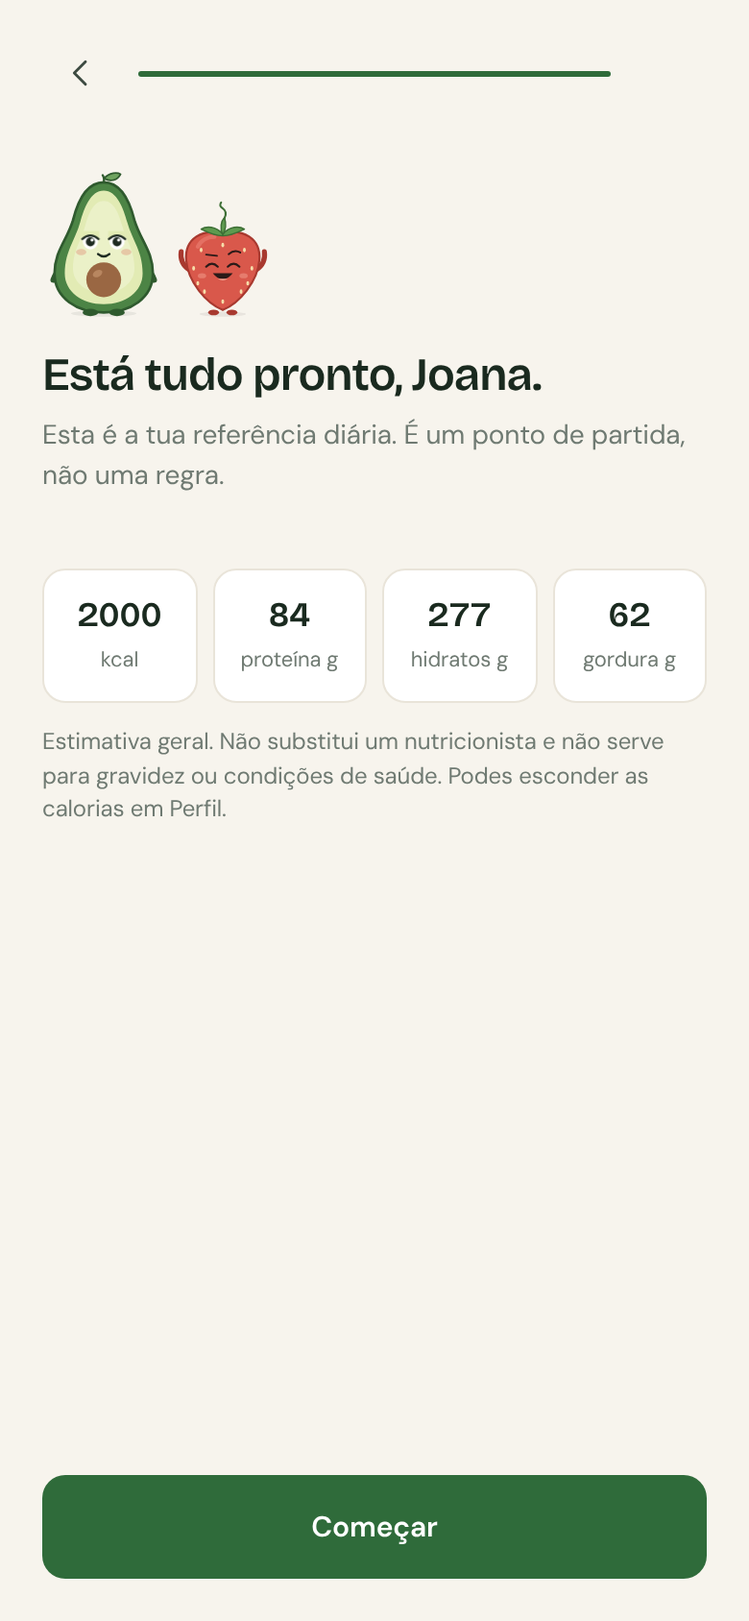
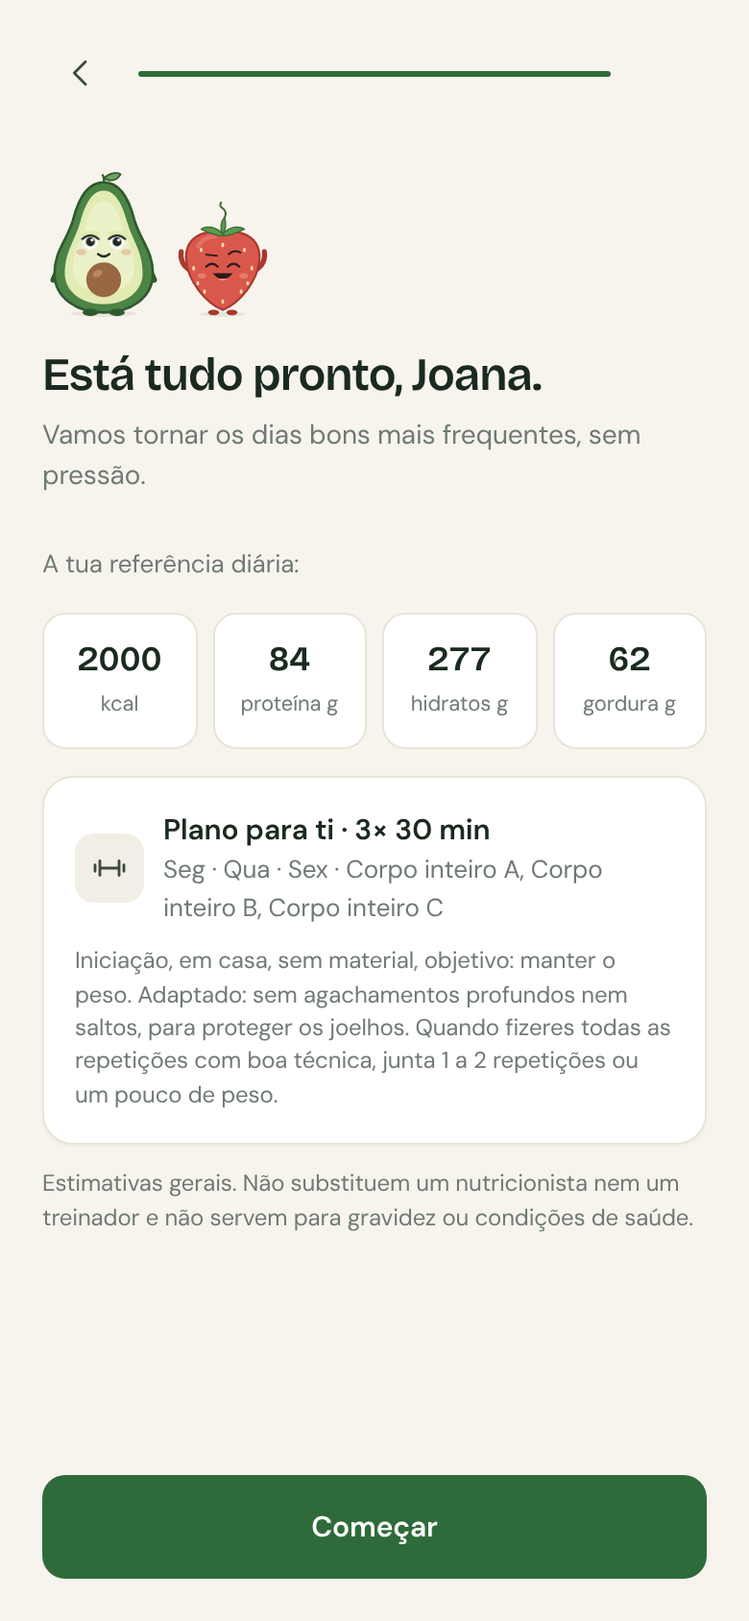
Brota: onboarding em conversa com o Abi e o Morango, gostos e qualidade da alimentação, plano de treino personalizado (local, dias, tempo, experiência, objetivo, limitações, IMC, idade)
Claude-Session: https://claude.ai/code/session_01YPf1t7VEr217cGx4TfyVm4

diff --git a/app/index.html b/app/index.html
@@ -711,7 +711,66 @@ const PROGRAMS = [
     s:[{ n:"Cardio contínuo", e:[["Caminhada rápida ou corrida leve","25 min"],["Mobilidade de anca e ombros","10 min"]] },
        { n:"Intervalos leves", e:[["Aquecimento","5 min"],["1 min rápido + 2 min calmo","6 vezes"],["Retorno à calma","5 min"],["Alongamentos","5 min"]] }] }
 ];
-const progOf = () => S.wk && PROGRAMS.find(p => p.id === S.wk.prog);
+/* ===== Plano de treino personalizado =====
+   Depende de: local (ginásio, casa com material, casa sem material, rua), dias, minutos, experiência,
+   objetivo, limitações (joelhos, costas, ombros), IMC e idade. Gera sessões a partir de padrões de movimento. */
+const EXL = {
+  squat:{ gym:["Agachamento com barra","Leg press"], equip:["Agachamento goblet com haltere","Agachamento com elástico"], casa:["Agachamento com o peso do corpo","Agachamento com pausa"], rua:["Agachamento com o peso do corpo","Agachamento com salto pequeno"], knee:["Sentar e levantar de um banco","Ponte de glúteos"] },
+  hinge:{ gym:["Peso morto romeno","Hip thrust com barra"], equip:["Peso morto romeno com halteres","Ponte de glúteos com haltere"], casa:["Ponte de glúteos","Ponte de glúteos a uma perna"], rua:["Ponte de glúteos num banco","Hip thrust num banco"], back:["Hip thrust apoiado","Bird dog"] },
+  push:{ gym:["Supino com halteres","Supino com barra"], equip:["Flexões","Press de peito com elástico"], casa:["Flexões (inclinadas, se precisares)","Flexões de joelhos"], rua:["Flexões num banco","Flexões"], shoulder:["Flexões inclinadas numa mesa","Press de peito leve com elástico"] },
+  pull:{ gym:["Puxada à frente","Remada sentada"], equip:["Remada com haltere","Remada com elástico"], casa:["Remada com toalha numa porta","Superman"], rua:["Remada australiana numa barra baixa","Superman"] },
+  press:{ gym:["Press de ombros com halteres","Elevações laterais"], equip:["Press de ombros com halteres","Elevações laterais com elástico"], casa:["Flexões pike","Elevações em Y deitado"], rua:["Flexões pike num banco","Elevações em Y"], shoulder:["Elevações laterais leves","Face pull com elástico"] },
+  lunge:{ gym:["Lunges com halteres","Step-up num banco"], equip:["Lunges com halteres","Step-up num degrau"], casa:["Lunges alternados","Lunges para trás"], rua:["Step-up num banco","Lunges a andar"], knee:["Elevação de gémeos","Abdução de anca deitado"] },
+  core:{ all:["Prancha","Dead bug","Prancha lateral"] },
+  cardio:{ gym:["Bicicleta ou passadeira inclinada"], equip:["Marcha rápida no lugar"], casa:["Marcha rápida ou polichinelos"], rua:["Caminhada rápida ou corrida leve"], low:["Caminhada rápida","Bicicleta estática"] }
+};
+const SPLITS = {
+  A:["squat","push","pull","hinge","core","lunge","press"],
+  B:["hinge","press","pull","lunge","push","core","squat"],
+  C:["lunge","pull","push","squat","core","hinge","press"],
+  U:["push","pull","press","pull","push","core","press"],
+  L:["squat","hinge","lunge","core","squat","hinge","lunge"]
+};
+const PLACE_L = { gym:"no ginásio", equip:"em casa com material", casa:"em casa, sem material", rua:"ao ar livre" };
+const LVL_L = { zero:"Iniciação", algum:"Intermédio", regular:"Avançado" };
+function generatePlan({ place="casa", days=3, min=30, lvl="zero", goal="manter", lim=[], bmi=22, age=30 }){
+  days = clamp(+days || 3, 2, 5); min = +min || 30;
+  const knee = lim.includes("Joelhos"), back = lim.includes("Costas"), shoulder = lim.includes("Ombros");
+  const low = knee || bmi >= 30 || age >= 60; // sem saltos nem impacto
+  const n = { 20:4, 30:5, 45:6, 60:7 }[min] || 5;
+  const sets = { zero:2, algum:3, regular:4 }[lvl] || 2;
+  const reps = goal === "musculo" && lvl !== "zero" ? "8–10" : "10–12";
+  const hold = { zero:"20 s", algum:"30 s", regular:"45 s" }[lvl] || "20 s";
+  const order = days <= 3 ? ["A","B","C"].slice(0, days === 2 ? 2 : 3) : days === 4 ? ["U","L"] : ["U","L","X"];
+  const pick = (pat, v) => { const L = EXL[pat];
+    if (knee && L.knee && (pat === "squat" || pat === "lunge")) return L.knee[v % L.knee.length];
+    if (back && L.back && pat === "hinge") return L.back[v % L.back.length];
+    if (shoulder && L.shoulder && (pat === "push" || pat === "press")) return L.shoulder[v % L.shoulder.length];
+    const arr = L.all || L[place] || L.casa; let ex = arr[v % arr.length];
+    if (low && /salto/i.test(ex)) ex = arr.find(x => !/salto/i.test(x)) || "Agachamento com o peso do corpo";
+    return ex; };
+  const cardio = () => low ? EXL.cardio.low[0] : (EXL.cardio[place] || EXL.cardio.casa)[0];
+  const sessions = order.map((key, si) => {
+    if (key === "X") return { n:"Cardio e mobilidade", e:[["Aquecimento articular","5 min"],[cardio(), lvl === "zero" ? "20 min, ritmo confortável" : "25 min, ritmo moderado"],["Mobilidade de anca, costas e ombros","10 min"]] };
+    const seen = {}, e = [["Aquecimento: mobilidade e marcha","5 min"]];
+    SPLITS[key].slice(0, n).forEach(pat => { seen[pat] = seen[pat] === undefined ? si : seen[pat] + 1;
+      const name = pick(pat, seen[pat]);
+      if (e.some(x => x[0] === name)) return;
+      e.push([name, pat === "core" ? (/Prancha/.test(name) ? `${sets} × ${hold}` : `${sets} × 10`) : `${sets} × ${reps}${pat === "lunge" || /uma perna/.test(name) ? " por perna" : ""}`]); });
+    if (goal === "perder" || min >= 45) e.push([cardio(), goal === "perder" ? "10–15 min" : "10 min"]);
+    return { n: { A:"Corpo inteiro A", B:"Corpo inteiro B", C:"Corpo inteiro C", U:"Parte de cima", L:"Pernas e core" }[key], e };
+  });
+  const notes = [];
+  if (knee) notes.push("sem agachamentos profundos nem saltos, para proteger os joelhos");
+  if (back) notes.push("sem peso morto, com exercícios que poupam as costas");
+  if (shoulder) notes.push("cargas leves nos ombros");
+  if (!knee && low) notes.push("sem impacto, para começar com segurança");
+  const dayIdx = { 2:[1,4], 3:[0,2,4], 4:[0,1,3,4], 5:[0,1,2,4,5] }[days];
+  return { id:"custom", n:`Plano para ti · ${days}× ${min} min`, lvl: lvl === "regular" ? 3 : lvl === "algum" ? 2 : 1, min, days:dayIdx, s:sessions,
+    d:`${LVL_L[lvl] || "Iniciação"}, ${PLACE_L[place] || ""}, objetivo: ${goalName(goal).toLowerCase()}.` + (notes.length ? ` Adaptado: ${notes.join("; ")}.` : "")
+      + " Quando fizeres todas as repetições com boa técnica, junta 1 a 2 repetições ou um pouco de peso." };
+}
+const progOf = () => S.wk && (S.wk.prog === "custom" ? S.wk.custom : PROGRAMS.find(p => p.id === S.wk.prog));
 const workoutDone = k => !!((S.wk && S.wk.done && S.wk.done[k]) || (S.wkHist && S.wkHist[k]));
 function sessionFor(k){ const p = progOf(); if (!p) return null; const days = S.wk.days, d = dow(k); if (!days.includes(d)) return null;
   const w = Math.round((parseK(mondayOf(k)) - parseK(mondayOf(S.wk.start))) / 864e5 / 7); // rotação contínua entre semanas
@@ -1009,6 +1068,9 @@ let rFilter = "Todas";
 function recipeAllowed(r){ const u = S.u || {}, al = (u.al||[]).filter(x => x !== "Nenhuma"), dt = u.diet || [];
   if (r.col_id && !S.owned.includes(r.col_id)) return false;
   if (r.al.some(a => al.includes(a))) return false;
+  const SYN = { "leguminosas":["grão","feijão","lentilha"], "peixe":["salmão","atum","peixe","bacalhau","pescada"], "picante":["caril","malagueta","piri"] };
+  const dl = (u.dislikes || []).flatMap(x => SYN[String(x).toLowerCase()] || [String(x).toLowerCase()]).filter(Boolean);
+  if (dl.length && r.i.some(i => dl.some(d => i[0].toLowerCase().includes(d)))) return false;
   const lim = dt.includes("Vegan") ? 0 : dt.includes("Vegetariano") ? 1 : dt.some(x => String(x).startsWith("Pescetariano")) ? 2 : 3; return r.d <= lim; }
 function suggestRecipes(){ const m = defMeal(); return RECIPES.filter(recipeAllowed).sort((a, b) => (b.c === m) - (a.c === m) || a.t - b.t); }
 const recCard = r => `<div class="rwrap"><button class="rcard" data-r="${r.id}">${recipeCover(r)}<span class="rb"><b>${esc(r.n)}</b><small>${icon("clock","xs")} ${r.t} min · ${r.f}</small></span></button>${S.fav.includes(r.id) ? `<span class="favdot" aria-label="Favorita">${icon("heart-f","xs")}</span>` : ""}</div>`;
@@ -1105,9 +1167,9 @@ function renderTreino(){
   const el = $("#p-treino"), p = progOf();
   const minorNote = isMinor() ? `<div class="note warn" style="margin-top:14px">${icon("info","sm")}<span>Se tens menos de 18 anos, mostra estes planos a um adulto ou treinador e começa sempre pela versão mais leve.</span></div>` : "";
   if (!p) { el.innerHTML = `<div class="card row" style="margin-top:18px;gap:14px">${morango({ mood:"happy", size:64 })}<div><h3>Escolhe um plano</h3><p class="small muted">Começa pelo que te parece fácil. Podes mudar quando quiseres.</p></div></div>${minorNote}
-    <div class="list" style="margin-top:14px">${PROGRAMS.map(x => `<button class="prog" data-p="${x.id}"><div class="badge acc">${icon("dumbbell")}</div><div class="lt"><b>${esc(x.n)}</b><small>${esc(x.d)}</small><small>${x.days.length}× por semana · ${x.min} min</small><span class="lvl" aria-label="Nível ${x.lvl} de 3">${[1,2,3].map(i => `<i class="${i <= x.lvl ? "on" : ""}"></i>`).join("")}</span></div>${icon("right","sm")}</button>`).join("")}</div>
+    <div class="list" style="margin-top:14px"><button class="prog" data-p="custom"><div class="badge">${icon("sparkle")}</div><div class="lt"><b>Plano feito para ti</b><small>Respondes a 5 perguntas e o ${esc(BRAND.mascot2)} monta o plano com o teu sítio, tempo, experiência e objetivo.</small></div>${icon("right","sm")}</button>${PROGRAMS.map(x => `<button class="prog" data-p="${x.id}"><div class="badge acc">${icon("dumbbell")}</div><div class="lt"><b>${esc(x.n)}</b><small>${esc(x.d)}</small><small>${x.days.length}× por semana · ${x.min} min</small><span class="lvl" aria-label="Nível ${x.lvl} de 3">${[1,2,3].map(i => `<i class="${i <= x.lvl ? "on" : ""}"></i>`).join("")}</span></div>${icon("right","sm")}</button>`).join("")}</div>
     <p class="tiny muted" style="margin:12px 4px">Se tens lesões, dores ou alguma condição de saúde, fala com um profissional antes de começar. Para de imediato se sentires dor.</p>`;
-    $$("[data-p]", el).forEach(b => b.onclick = () => openProgram(b.dataset.p)); return; }
+    $$("[data-p]", el).forEach(b => b.onclick = () => b.dataset.p === "custom" ? openOnboarding(true, "gym") : openProgram(b.dataset.p)); return; }
   const k = today(), mon = mondayOf(k), se = sessionFor(k);
   const weekDone = DOW.filter((_, i) => workoutDone(addDays(mon, i))).length;
   el.innerHTML = `<div class="card" style="margin-top:18px"><div class="row between"><div><p class="tiny muted" style="font-weight:700;text-transform:uppercase;letter-spacing:.06em">O teu plano</p><h3>${esc(p.n)}</h3></div><button class="btn ghost sm" id="t-chg">Mudar</button></div>
@@ -1324,7 +1386,7 @@ const refCard = r => `<div class="ref"><div><b>${r.kcal}</b><small>kcal</small><
 function openPrefs(){
   const u = S.u || {}, p = S.prof;
   const rows = [["Objetivo", goalName(u.goal)],["Dados", validBody(p) && u.age !== "Prefiro não dizer" ? `${p.age} anos · ${p.h} cm · ${p.w} kg` : "Não indicados"],["Atividade", (ACTS.find(a => a[0] === String(p.act)) || [,"–"])[1]],
-    ["Alimentação", (u.diet||[]).join(", ")],["A evitar", (u.al||[]).join(", ")],["Cozinha", u.cook]];
+    ["Alimentação", (u.diet||[]).join(", ")],["A evitar", (u.al||[]).join(", ")],["Não gosto", (u.dislikes||[]).join(", ")],["Cozinha", u.cook]];
   openSheet("Preferências", `<div class="stack">
     <div class="list">${rows.map(([a,b2]) => `<div class="li"><div class="lt"><small>${a}</small><b>${esc(b2 || "–")}</b></div></div>`).join("")}</div>
     <div class="row"><button class="btn ghost grow" id="pr-calc">Dados e objetivo</button><button class="btn ghost grow" id="pr-redo">Alimentação</button></div>
@@ -1398,40 +1460,57 @@ $("#f-imp").onchange = async e => { const f = e.target.files[0]; e.target.value 
   catch(x) { toast("Ficheiro inválido: não é uma cópia desta app"); } };
 
 /* ========================== Onboarding ========================== */
-// Curto e conduzido pelas mascotes: o Abi pergunta com calma, o Morango entra nas partes de energia.
+// Uma conversa curta com as mascotes. O Abi trata da comida e dos dados; o Morango do movimento e do treino.
+// `when` esconde passos que não se aplicam (ex.: perguntas do ginásio só se a pessoa quiser um plano).
+const nm = A => A.name ? `, ${A.name}` : "";
 const OB = [
-  { k:"name", who:"abi", m:"wave", q:`Olá, eu sou o ${BRAND.mascot}. Como te chamo?`, s:"Opcional. Não pedimos e-mail.", type:"text" },
-  { k:"body", who:"abi", m:"think", q:"Conta-me um pouco sobre ti.", s:"Serve só para calcular uma referência. Fica guardado neste aparelho.", type:"body" },
-  { k:"act", who:"morango", m:"wink", one:1, q:`E eu sou o ${BRAND.mascot2}! Quanto te mexes numa semana normal?`, s:"Contam treinos, caminhadas e trabalho físico.", o:ACTS },
-  { k:"goal", who:"morango", m:"happy", one:1, q:"Qual é o teu objetivo agora?", s:"Podes mudar quando quiseres.", o:GOALS },
-  { k:"diet", who:"abi", m:"happy", ex:"Como de tudo", q:"Como é a tua alimentação?", s:"Podes escolher várias.", o:["Como de tudo","Vegetariano","Vegan","Pescetariano","Não como carne de porco"] },
-  { k:"al", who:"abi", m:"think", ex:"Nenhuma", q:"Há algum alimento que tenhas de evitar?", s:"Alergias e intolerâncias. Escondo as receitas que os tenham.", o:["Lactose","Glúten","Frutos secos","Amendoim","Marisco","Ovos","Soja","Peixe","Sésamo","Nenhuma"] },
-  { k:"cook", who:"abi", m:"happy", one:1, q:"E na cozinha, como te dás?", s:"Ajuda-me a sugerir receitas à tua medida.", o:["Estou a começar","Desenrasco-me","Adoro cozinhar"] },
+  { k:"name", who:"abi", m:"wave", q:() => `Olá! Eu sou o ${BRAND.mascot}. Como te chamo?`, s:"Só o primeiro nome chega. Não pedimos e-mail.", type:"text" },
+  { k:"body", who:"abi", m:"happy", q:A => `Prazer${nm(A)}! Conta-me um pouco sobre ti.`, s:"Serve para calcular uma referência e adaptar o treino. Fica só neste aparelho.", type:"body" },
+  { k:"act", who:"morango", m:"wink", one:1, q:() => `E eu sou o ${BRAND.mascot2}! Quanto te mexes numa semana normal?`, s:"Contam treinos, caminhadas e trabalho físico.", o:ACTS },
+  { k:"goal", who:"morango", m:"happy", one:1, q:() => "Qual é o teu objetivo agora?", s:"Podes mudar quando quiseres.", o:GOALS },
+  { k:"dietq", who:"abi", m:"think", one:1, q:() => "Como descreves a tua alimentação hoje?", s:"Sem julgamentos. É só para saber por onde começar.", o:[["boa","Equilibrada, quase sempre"],["media","Razoável, com altos e baixos"],["caos","Desorganizada: salto refeições ou como à pressa"],["nsei","Não sei bem"]] },
+  { k:"diet", who:"abi", m:"happy", ex:"Como de tudo", q:() => "Há alguma forma de comer que sigas?", s:"Podes escolher várias.", o:["Como de tudo","Vegetariano","Vegan","Pescetariano","Não como carne de porco"] },
+  { k:"al", who:"abi", m:"think", ex:"Nenhuma", q:() => "Tens alergias ou intolerâncias?", s:"Escondo as receitas que as tenham. Confirma sempre os rótulos.", o:["Lactose","Glúten","Frutos secos","Amendoim","Marisco","Ovos","Soja","Peixe","Sésamo","Nenhuma"] },
+  { k:"dislikes", who:"abi", m:"wow", ex:"Nada em especial", q:() => "E há coisas de que simplesmente não gostas?", s:"Também as tiro das sugestões.", o:["Cogumelos","Coentros","Cebola","Pimento","Peixe","Leguminosas","Picante","Nada em especial"], other:1 },
+  { k:"cook", who:"abi", m:"happy", one:1, q:() => "E na cozinha, como te dás?", s:"Ajuda-me a sugerir receitas à tua medida.", o:["Estou a começar","Desenrasco-me","Adoro cozinhar"] },
+  { k:"gym", who:"morango", m:"wow", one:1, q:A => `Queres que te monte um plano de treino${nm(A)}?`, s:"Feito à tua medida. Podes ativar mais tarde no separador Planos.", o:[["sim","Sim, quero treinar"],["nao","Agora não"]] },
+  { k:"place", who:"morango", m:"think", one:1, when:A => A.gym === "sim", q:() => "Onde vais treinar?", s:"Escolhe o sítio onde treinas mais vezes.", o:[["gym","No ginásio"],["equip","Em casa, com halteres ou elásticos"],["casa","Em casa, sem material"],["rua","Na rua ou num parque"]] },
+  { k:"gdays", who:"morango", m:"happy", one:1, when:A => A.gym === "sim", q:() => "Quantos dias por semana consegues?", s:"É melhor pouco e sempre do que muito e parar.", o:[["2","2 dias"],["3","3 dias"],["4","4 dias"],["5","5 dias"]] },
+  { k:"gmin", who:"morango", m:"wink", one:1, when:A => A.gym === "sim", q:() => "E quanto tempo tens por treino?", s:"Conta com o aquecimento.", o:[["20","20 minutos"],["30","30 minutos"],["45","45 minutos"],["60","1 hora"]] },
+  { k:"lvl", who:"morango", m:"think", one:1, when:A => A.gym === "sim", q:() => "Que experiência tens a treinar?", s:"Ajusta as séries e a dificuldade.", o:[["zero","Nunca treinei ou parei há muito"],["algum","Já treinei um pouco"],["regular","Treino com regularidade"]] },
+  { k:"lim", who:"morango", m:"think", ex:"Nenhuma", when:A => A.gym === "sim", q:() => "Tens alguma zona a poupar?", s:"Troco os exercícios que podem incomodar. Se tens dor, fala primeiro com um profissional.", o:["Joelhos","Costas","Ombros","Nenhuma"] },
   { k:"result", type:"result" }
 ];
 function openOnboarding(edit, startKey){
-  const A = Object.assign({ name:"", goal:"", act:String(S.prof.act || ""), diet:[], al:[], cook:"", age:"" }, structuredClone(S.u || {}));
+  const A = Object.assign({ name:"", goal:"", act:String(S.prof.act || ""), dietq:"", diet:[], al:[], dislikes:[], cook:"", gym:"", place:"", gdays:"", gmin:"", lvl:"", lim:[], age:"" }, structuredClone(S.u || {}));
   const B = Object.assign({}, S.prof, { skip: A.age === "Prefiro não dizer" });
-  let n = Math.max(0, OB.findIndex(x => x.k === startKey));
+  const vis = () => OB.filter(s => !s.when || s.when(A));
+  let n = Math.max(0, vis().findIndex(x => x.k === startKey)), mood = null;
   const ob = $("#ob"), inn = $("#ob-in"); ob.classList.remove("hide");
   const minor = () => !B.skip && B.age < 18;
   const opts = s => (s.k === "goal" && (minor() || B.skip) ? s.o.filter(o => o[0] !== "perder") : s.o).map(o => Array.isArray(o) ? o : [o, o]);
   const sel = (s, v) => s.one ? String(A[s.k]) === v : (A[s.k]||[]).includes(v);
   const tog = (s, v) => { if (s.one) { A[s.k] = v; return; } let a = A[s.k] || []; a = a.includes(v) ? a.filter(x => x !== v) : v === s.ex ? [v] : a.filter(x => x !== s.ex).concat(v); A[s.k] = a; };
   const readBody = () => { if (!$("#ob-age", inn)) return; B.age = +$("#ob-age", inn).value; B.h = +$("#ob-h", inn).value; B.w = +$("#ob-w", inn).value; };
-  const valid = s => s.type === "text" || s.type === "result" || (s.type === "body" ? (B.skip || validBody(B)) : s.one ? !!A[s.k] : (A[s.k]||[]).length > 0);
-  const mascot = s => s.who === "morango" ? morango({ mood:s.m, size:64 }) : abi({ mood:s.m, size:64 });
-  const save1 = () => { if (OB[n].type === "text") A.name = $("#ob-n", inn).value.trim().slice(0,40); if (OB[n].type === "body") readBody(); };
+  const valid = s => s.type === "text" || s.type === "result" || (s.type === "body" ? (B.skip || validBody(B)) : s.one ? !!A[s.k] : (A[s.k]||[]).length > 0 || (s.other && !!(A.dislikesOther||"").trim()));
+  const face = s => (s.who === "morango" ? morango : abi)({ mood: mood || s.m, size:64 });
+  const save1 = s => { if (s.type === "text") A.name = $("#ob-n", inn).value.trim().slice(0,40); if (s.type === "body") readBody(); if (s.other) A.dislikesOther = $("#ob-o", inn).value.slice(0,80); };
+  const planFor = prof => generatePlan({ place:A.place || "casa", days:A.gdays || 3, min:A.gmin || 30, lvl:A.lvl || "zero", goal:A.goal || "manter",
+    lim:(A.lim||[]).filter(x => x !== "Nenhuma"), bmi: validBody(prof) ? prof.w / ((prof.h/100) ** 2) : 22, age: validBody(prof) ? prof.age : 30 });
   const finish = () => {
     const first = !S.ob;
     if (!B.skip) S.prof = { sex:B.sex, age:B.age, h:B.h, w:B.w, act:A.act || "1.375" }; else S.prof.act = A.act || S.prof.act;
     A.age = B.skip ? "Prefiro não dizer" : B.age >= 18 ? "18 ou mais" : "Menos de 18";
     if (A.goal === "perder" && (minor() || B.skip)) A.goal = "manter";
-    A.obj = goalName(A.goal); S.u = A; S.ob = 1; applyRef(); if (first) S.spins = 3; save(); ob.classList.add("hide"); refreshAll();
+    const extra = (A.dislikesOther || "").split(",").map(x => x.trim()).filter(Boolean);
+    A.dislikes = (A.dislikes || []).filter(x => x !== "Nada em especial").concat(extra).slice(0, 20); delete A.dislikesOther;
+    A.obj = goalName(A.goal); S.u = A; S.ob = 1; applyRef();
+    if (A.gym === "sim") { const pl = planFor(S.prof); S.wkHist = Object.assign(S.wkHist || {}, (S.wk && S.wk.done) || {}); S.wk = { prog:"custom", custom:pl, days:pl.days.slice(), start:today(), done:{}, ex:{} }; }
+    if (first) S.spins = 3; save(); ob.classList.add("hide"); refreshAll();
     if (first) setTimeout(() => celebrate({ who:"morango", title:"Presente de boas-vindas", name:"3 giros na roda de prémios", desc:`Gira a roda e ganha acessórios para o ${BRAND.mascot}. No fim das 3 tentativas, o prémio dourado é garantido.`, mood:"party", action:{ label:"Ir à roda", fn:() => go("roda") } }), 300);
   };
-  const draw = () => { const s = OB[n];
-    let body = "", q = s.q, sub = s.s, who = s;
+  const draw = () => { const V = vis(); n = Math.min(n, V.length-1); const s = V[n];
+    let body = "", q = s.q ? s.q(A) : "", sub = s.s || "", head = face(s);
     if (s.type === "text") body = `<input id="ob-n" maxlength="40" autocomplete="given-name" placeholder="O teu nome" value="${esc(A.name)}" aria-label="Nome">`;
     else if (s.type === "body") body = `<div class="ob-form"><div class="seg" id="ob-sex"><button data-v="f" class="${B.sex === "f" ? "on" : ""}">Feminino</button><button data-v="m" class="${B.sex === "m" ? "on" : ""}">Masculino</button></div>
       <div class="g2" style="grid-template-columns:repeat(3,1fr)"><label class="field"><span>Idade</span><input id="ob-age" type="number" inputmode="numeric" min="10" max="100" value="${B.skip ? "" : B.age}"></label><label class="field"><span>Altura (cm)</span><input id="ob-h" type="number" inputmode="numeric" min="120" max="230" value="${B.skip ? "" : B.h}"></label><label class="field"><span>Peso (kg)</span><input id="ob-w" type="number" inputmode="decimal" step="0.1" min="30" max="250" value="${B.skip ? "" : B.w}"></label></div>
@@ -1439,24 +1518,29 @@ function openOnboarding(edit, startKey){
     else if (s.type === "result") {
       const prof = { sex:B.sex, age:B.age, h:B.h, w:B.w, act:A.act || "1.375" };
       const noKcal = B.skip || minor() || A.goal === "livre", r = noKcal ? null : computeRef(prof, A.goal || "manter");
-      who = { who: r ? "morango" : "abi", m:"party" };
-      q = A.name ? `Está tudo pronto, ${A.name}.` : "Está tudo pronto.";
-      sub = r ? "Esta é a tua referência diária. É um ponto de partida, não uma regra." : "Vamos focar-nos em refeições regulares, variadas e em água. Sem contar calorias.";
-      body = r ? refCard(r) + (r.note ? `<div class="note warn" style="margin-top:12px">${icon("info","sm")}<span>${esc(r.note)}</span></div>` : "")
-        + `<p class="tiny muted" style="margin-top:12px">Estimativa geral. Não substitui um nutricionista e não serve para gravidez ou condições de saúde. Podes esconder as calorias em Perfil.</p>` : "";
+      const pl = A.gym === "sim" ? planFor(B.skip ? {} : prof) : null;
+      head = `<div class="mascots">${abi({ mood:"happy", size:64 })}${morango({ mood:"party", size:52 })}</div>`;
+      q = `Está tudo pronto${nm(A)}.`;
+      sub = { caos:"Vamos começar pelo mais simples: refeições a horas e água. O resto vem depois.", boa:"Já tens uma boa base. Vamos ajudar-te a manter o ritmo.", media:"Vamos tornar os dias bons mais frequentes, sem pressão." }[A.dietq] || "Vamos devagar, um hábito de cada vez.";
+      body = (r ? `<p class="small muted" style="margin-top:4px">A tua referência diária:</p>${refCard(r)}` + (r.note ? `<div class="note warn" style="margin-top:12px">${icon("info","sm")}<span>${esc(r.note)}</span></div>` : "")
+               : `<div class="note" style="margin-top:4px">${icon("info","sm")}<span>Sem contar calorias: o anel do dia mostra as refeições que registas.</span></div>`)
+        + (pl ? `<div class="card" style="margin-top:14px"><div class="row"><span class="badge">${icon("dumbbell")}</span><div class="grow"><b>${esc(pl.n)}</b><p class="small muted">${pl.days.map(d => DOW[d]).join(" · ")} · ${pl.s.map(x => x.n).join(", ")}</p></div></div><p class="tiny muted" style="margin-top:10px">${esc(pl.d)}</p></div>` : "")
+        + `<p class="tiny muted" style="margin-top:12px">Estimativas gerais. Não substituem um nutricionista nem um treinador e não servem para gravidez ou condições de saúde.</p>`;
     }
-    else body = `<div class="opts">${opts(s).map(([v,l]) => `<button class="opt ${sel(s,v) ? "on" : ""}" data-o="${esc(v)}" aria-pressed="${sel(s,v)}"><span class="tick">${icon("check","xs")}</span>${esc(l)}</button>`).join("")}</div>`;
-    inn.innerHTML = `<div class="row">${n ? `<button class="iconbtn" id="ob-b" aria-label="Voltar">${icon("left")}</button>` : `<span style="width:40px"></span>`}<div class="obbar" role="progressbar" aria-valuemin="1" aria-valuemax="${OB.length}" aria-valuenow="${n+1}"><i style="width:${(n+1)/OB.length*100}%"></i></div>${edit ? `<button class="iconbtn" id="ob-x" aria-label="Fechar">${icon("x")}</button>` : `<span style="width:40px"></span>`}</div>
-      <div class="ob-q">${s.type === "result" ? `<div class="mascots">${abi({ mood:"happy", size:64 })}${morango({ mood:"party", size:52 })}</div>` : mascot(who)}<div class="speech"><b>${esc(q)}</b><span>${esc(sub)}</span></div></div>
+    else body = `<div class="opts">${opts(s).map(([v,l]) => `<button class="opt ${sel(s,v) ? "on" : ""}" data-o="${esc(v)}" aria-pressed="${sel(s,v)}"><span class="tick">${icon("check","xs")}</span>${esc(l)}</button>`).join("")}</div>`
+      + (s.other ? `<input id="ob-o" maxlength="80" placeholder="Outros, separados por vírgulas" value="${esc(A.dislikesOther || "")}" style="margin-top:10px" aria-label="Outros alimentos">` : "");
+    inn.innerHTML = `<div class="row">${n ? `<button class="iconbtn" id="ob-b" aria-label="Voltar">${icon("left")}</button>` : `<span style="width:40px"></span>`}<div class="obbar" role="progressbar" aria-valuemin="1" aria-valuemax="${V.length}" aria-valuenow="${n+1}"><i style="width:${(n+1)/V.length*100}%"></i></div>${edit ? `<button class="iconbtn" id="ob-x" aria-label="Fechar">${icon("x")}</button>` : `<span style="width:40px"></span>`}</div>
+      <div class="ob-q">${head}<div class="speech"><b>${esc(q)}</b><span>${esc(sub)}</span></div></div>
       ${body}<div style="flex:1;min-height:24px"></div><button class="btn block" id="ob-n2" ${valid(s) ? "" : "disabled"} style="height:54px">${s.type === "result" ? "Começar" : "Continuar"}</button>`;
-    $$(".opt", inn).forEach(b => b.onclick = () => { tog(s, b.dataset.o); draw(); });
+    $$(".opt", inn).forEach(b => b.onclick = () => { save1(s); tog(s, b.dataset.o); mood = s.who === "morango" ? (s.k === "gym" && b.dataset.o === "nao" ? "think" : "party") : "happy"; draw(); });
     $$("#ob-sex button", inn).forEach(x => x.onclick = () => { readBody(); B.sex = x.dataset.v; draw(); });
     $$("#ob-age,#ob-h,#ob-w", inn).forEach(x => x.oninput = () => { readBody(); B.skip = false; $("#ob-n2", inn).disabled = !validBody(B); });
-    const sk = $("#ob-skip", inn); if (sk) sk.onclick = () => { B.skip = true; n++; draw(); };
-    const bb = $("#ob-b", inn); if (bb) bb.onclick = () => { save1(); n--; draw(); };
+    const oo = $("#ob-o", inn); if (oo) oo.oninput = () => { A.dislikesOther = oo.value.slice(0,80); $("#ob-n2", inn).disabled = !valid(s); };
+    const sk = $("#ob-skip", inn); if (sk) sk.onclick = () => { B.skip = true; mood = null; n++; draw(); };
+    const bb = $("#ob-b", inn); if (bb) bb.onclick = () => { save1(s); mood = null; n--; draw(); };
     const bx = $("#ob-x", inn); if (bx) bx.onclick = () => ob.classList.add("hide");
     const ni = $("#ob-n", inn); if (ni) { ni.focus(); ni.onkeydown = e => { if (e.key === "Enter") $("#ob-n2", inn).click(); }; }
-    $("#ob-n2", inn).onclick = () => { save1(); if (s.type === "body" && validBody(B)) B.skip = false; if (n < OB.length-1) { n++; draw(); return; } finish(); };
+    $("#ob-n2", inn).onclick = () => { save1(s); if (s.type === "body" && validBody(B)) B.skip = false; mood = null; if (n < vis().length-1) { n++; draw(); return; } finish(); };
   };
   draw();
 }

diff --git a/tests/app.test.js b/tests/app.test.js
@@ -27,7 +27,7 @@ const ok = (c, m) => { if (c) passes++; else { fails++; console.error("  ✗ " +
   await page.click("#ob-n2");
   await page.fill("#ob-age", "30"); await page.fill("#ob-h", "170"); await page.fill("#ob-w", "70"); await shot("02b-dados");
   await page.click("#ob-n2");
-  for (const opt of ["1.375", "manter", "Como de tudo", "Nenhuma", "Desenrasco-me"]) {
+  for (const opt of ["1.375", "manter", "media", "Como de tudo", "Nenhuma", "Cogumelos", "Desenrasco-me", "sim", "casa", "3", "30", "zero", "Joelhos"]) {
     await page.click(`.opt[data-o="${opt}"]`); await page.click("#ob-n2");
   }
   await page.waitForTimeout(200); await shot("02c-referencia");
@@ -84,9 +84,13 @@ const ok = (c, m) => { if (c) passes++; else { fails++; console.error("  ✗ " +
   await shot("08-plano-semana");
   await page.click('[data-v="mes"]'); await page.waitForTimeout(300); await shot("09-plano-mes");
   await page.click('#p-seg [data-s="treino"]'); await page.waitForTimeout(300); await shot("10-treino-escolher");
-  await page.click('[data-p="zero"]'); await page.waitForTimeout(400);
-  await page.evaluate(() => { const d = (new Date().getDay()+6)%7; [...document.querySelectorAll("#pg-d .chip")].forEach(c => { if (+c.dataset.i === d && !c.classList.contains("on")) c.click(); }); });
-  await page.click("#pg-ok"); await page.waitForTimeout(400);
+  const plan = await page.evaluate(() => S.wk && S.wk.custom);
+  ok(plan && plan.s.length === 3 && plan.days.length === 3, "plano personalizado com 3 treinos por semana");
+  const exs = plan ? plan.s.flatMap(x => x.e.map(e => e[0])).join("|") : "";
+  ok(!/Lunges|Agachamento com|salto/i.test(exs) && /Ponte de glúteos|Sentar e levantar/.test(exs), "plano poupa os joelhos (" + exs + ")");
+  ok(await page.evaluate(() => { const a = generatePlan({ place:"gym", days:4, min:60, lvl:"regular", goal:"musculo" }), b = generatePlan({ place:"casa", days:2, min:20, lvl:"zero", goal:"perder", bmi:32 });
+    return a.s.length === 2 && a.s[0].e.length > b.s[0].e.length && /4 ×/.test(a.s[0].e[1][1]) && /2 ×/.test(b.s[0].e[1][1]) && b.s[0].e.some(e => /Caminhada/.test(e[0])); }), "planos diferentes para pessoas diferentes");
+  await page.evaluate(() => { const d = (new Date().getDay()+6)%7; if (!S.wk.days.includes(d)) S.wk.days.push(d); save(); renderTreino(); }); await page.waitForTimeout(300);
   await page.click("[data-ex] >> nth=0"); await page.waitForTimeout(200);
   await page.click("[data-fin] >> nth=0"); await page.waitForTimeout(500); await closeCel();
   st = await state();
